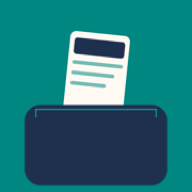
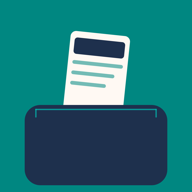
PWAアイコンを1024pxのマスターから作り直し、マスカブル対応を追加
- 従来は180pxのLPアイコンを拡大していたため、ホーム画面追加時にぼやけていた
- iOS版のAppIcon-1024.pngを元に192/512を再生成
- Android用にセーフゾーン(内側80%)を確保したmaskable版を追加
- Web版専用のapple-touch-icon(180px)も鮮明なものに差し替え
- SW VERSION v9

diff --git a/gakkaipocket/web/index.html b/gakkaipocket/web/index.html
@@ -6,7 +6,8 @@
   <title>学会ポケット Web版｜タイテグリッド</title>
   <meta name="description" content="学会・研究大会のプログラムをタイムテーブル形式で見られる非公式アプリ「学会ポケット」のWeb版です。">
   <link rel="icon" href="../assets/favicon-32.png" sizes="32x32">
-  <link rel="apple-touch-icon" href="../assets/icon.png">
+  <link rel="icon" href="assets/icon-192.png" sizes="192x192" type="image/png">
+  <link rel="apple-touch-icon" href="assets/apple-touch-icon.png">
   <link rel="manifest" href="manifest.webmanifest">
   <meta name="theme-color" content="#0f766e">
   <link rel="stylesheet" href="assets/app.css">

diff --git a/gakkaipocket/web/sw.js b/gakkaipocket/web/sw.js
@@ -21,7 +21,7 @@
 // シェル(HTML/CSS/JS)の内容を変更したら、必ずこの VERSION を上げること。
 // (上げないと、cache-first で配っている古いシェルがユーザーの端末に残り続ける)
 
-const VERSION = "v8";
+const VERSION = "v9";
 const SHELL_CACHE = `gp-shell-${VERSION}`;
 const CATALOG_CACHE = `gp-catalog-${VERSION}`;
 
